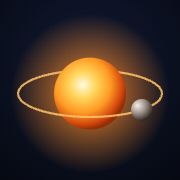
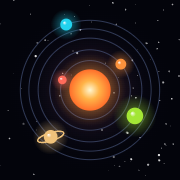
App espacial: sistema solar, 6 robôs (Marte e Júpiter), ícone novo

diff --git a/index.html b/index.html
@@ -6,78 +6,97 @@
 <link rel="manifest" href="manifest.json">
 <link rel="icon" href="icone-192.png">
 <link rel="apple-touch-icon" href="apple-touch-icon.png">
-<meta name="theme-color" content="#070a16">
+<meta name="theme-color" content="#03040b">
 <meta name="mobile-web-app-capable" content="yes">
 <meta name="apple-mobile-web-app-capable" content="yes">
 <meta name="apple-mobile-web-app-status-bar-style" content="black-translucent">
 <meta name="viewport" content="width=device-width, initial-scale=1, maximum-scale=1, viewport-fit=cover">
+<link rel="preconnect" href="https://fonts.googleapis.com"><link rel="preconnect" href="https://fonts.gstatic.com" crossorigin>
+<link href="https://fonts.googleapis.com/css2?family=Orbitron:wght@600;800&family=Exo+2:wght@400;600;700&display=swap" rel="stylesheet">
 <style>
-:root{--bg:#05070f;--card:#0f1528;--borda:#222b45;--txt:#e8ecf8;--sub:#9aa6c4;--ouro:#ffc46b;--verde:#4ade80;--verm:#f87171;--azul:#60a5fa}
+:root{--bg:#03040b;--card:rgba(14,20,44,.55);--borda:rgba(120,150,255,.16);--txt:#e8ecf8;--sub:#8fa0c8;--ouro:#ffc46b;--verde:#4ade80;--verm:#f87171;--azul:#60a5fa;--neon:#7dd3fc}
 *{box-sizing:border-box}
-body{margin:0;background:radial-gradient(120% 60% at 50% 0%,#121a33 0%,#070a16 55%,#04050b 100%);background-attachment:fixed;color:var(--txt);font-family:-apple-system,"Segoe UI",Roboto,Inter,sans-serif;min-height:100vh}
-.wrap{max-width:520px;margin:0 auto;padding:calc(16px + env(safe-area-inset-top)) 16px calc(40px + env(safe-area-inset-bottom))}
-#login{display:none;max-width:420px;margin:0 auto;padding:80px 20px}
-#login input{width:100%;padding:14px;border-radius:12px;border:1px solid var(--borda);background:#0f1528;color:var(--txt);font-size:16px;margin:14px 0}
-#login button{width:100%;padding:14px;border-radius:12px;border:0;background:var(--ouro);color:#111;font-weight:700;font-size:15px;min-height:48px}
-.top{display:flex;justify-content:space-between;align-items:center;margin-bottom:14px}
-h1{margin:0;font-size:18px;letter-spacing:.06em;color:var(--ouro);white-space:nowrap}
-.sub{font-size:11px;color:var(--sub);margin-top:2px}
-.pill{white-space:nowrap;display:flex;align-items:center;gap:7px;padding:6px 11px;border-radius:999px;font-size:11px;font-weight:600;letter-spacing:.05em;border:1px solid}
+html{background:#03040b}
+body{margin:0;background:radial-gradient(90% 50% at 50% -5%,rgba(255,170,60,.16) 0%,rgba(80,60,180,.10) 35%,transparent 70%),radial-gradient(70% 50% at 100% 100%,rgba(34,211,238,.07),transparent 70%),#03040b;background-attachment:fixed;color:var(--txt);font-family:"Exo 2",-apple-system,"Segoe UI",Roboto,sans-serif;min-height:100vh;overflow-x:hidden}
+#ceu{position:fixed;inset:0;width:100%;height:100%;z-index:0;pointer-events:none}
+.wrap,#login{position:relative;z-index:1}
+.wrap{max-width:540px;margin:0 auto;padding:calc(14px + env(safe-area-inset-top)) 16px calc(40px + env(safe-area-inset-bottom))}
+#login{display:none;max-width:420px;margin:0 auto;padding:70px 20px;text-align:center}
+#login input{width:100%;padding:14px;border-radius:14px;border:1px solid var(--borda);background:rgba(10,14,32,.8);color:var(--txt);font-size:16px;margin:14px 0;font-family:inherit}
+#login button{width:100%;padding:14px;border-radius:14px;border:0;background:linear-gradient(90deg,#ffb347,#ff7a3d);color:#140a00;font-weight:800;font-size:15px;min-height:48px;letter-spacing:.12em;font-family:Orbitron,sans-serif;box-shadow:0 0 24px rgba(255,150,60,.45)}
+.top{display:flex;justify-content:space-between;align-items:center;gap:10px;margin-bottom:14px}
+.marca{display:flex;align-items:center;gap:10px;min-width:0}
+.sol{width:46px;height:46px;flex:none}
+.sol .orb{transform-origin:50px 50px}
+.o1{animation:gira 6s linear infinite}.o2{animation:gira 11s linear infinite}.o3{animation:gira 19s linear infinite}.o4{animation:gira 30s linear infinite}
+@keyframes gira{to{transform:rotate(360deg)}}
+@media (prefers-reduced-motion:reduce){.o1,.o2,.o3,.o4{animation:none}}
+h1{margin:0;font-family:Orbitron,sans-serif;font-weight:800;font-size:clamp(11px,3vw,16px);letter-spacing:.06em;white-space:nowrap;background:linear-gradient(90deg,#ffd38a,#ff9a4d 55%,#ff6b8b);-webkit-background-clip:text;background-clip:text;color:transparent;filter:drop-shadow(0 0 10px rgba(255,160,70,.35))}
+.sub{font-size:11px;color:var(--sub);margin-top:3px;overflow:hidden;text-overflow:ellipsis}
+.pill{white-space:nowrap;display:flex;align-items:center;gap:7px;padding:6px 11px;border-radius:999px;font-size:10.5px;font-weight:700;letter-spacing:.12em;border:1px solid;font-family:Orbitron,sans-serif}
 .dot{width:8px;height:8px;border-radius:50%}
-.on{color:#86efac;border-color:rgba(74,222,128,.45);background:rgba(74,222,128,.1)}
+.on{color:#86efac;border-color:rgba(74,222,128,.45);background:rgba(74,222,128,.08)}
 .on .dot{background:var(--verde);animation:ping 1.8s infinite}
-.off{color:#fca5a5;border-color:rgba(248,113,113,.45);background:rgba(248,113,113,.1)}
+.off{color:#fca5a5;border-color:rgba(248,113,113,.45);background:rgba(248,113,113,.08)}
 .off .dot{background:var(--verm)}
 @keyframes ping{0%{box-shadow:0 0 0 0 rgba(74,222,128,.7)}100%{box-shadow:0 0 0 9px rgba(74,222,128,0)}}
-.card{background:rgba(255,255,255,.035);border:1px solid var(--borda);border-radius:14px;padding:14px;margin-bottom:12px}
-.lbl{font-size:10.5px;color:var(--sub);letter-spacing:.12em;text-transform:uppercase}
-.big{font-size:34px;font-weight:700;margin-top:4px}
+.card,.gcard{position:relative;background:linear-gradient(160deg,rgba(30,40,90,.38),rgba(8,12,30,.55));border:1px solid var(--borda);border-radius:18px;padding:14px;margin-bottom:12px;backdrop-filter:blur(8px);-webkit-backdrop-filter:blur(8px);box-shadow:inset 0 1px 0 rgba(255,255,255,.05),0 8px 30px rgba(0,0,0,.35)}
+.hero{overflow:hidden;border-color:rgba(255,180,90,.28)}
+.hero:before{content:"";position:absolute;right:-60px;top:-60px;width:180px;height:180px;border-radius:50%;background:radial-gradient(circle,rgba(255,170,60,.35),rgba(255,120,40,.08) 55%,transparent 70%)}
+.hero:after{content:"";position:absolute;right:-110px;top:-110px;width:280px;height:280px;border-radius:50%;border:1px dashed rgba(255,200,120,.18)}
+.lbl{font-size:10px;color:var(--sub);letter-spacing:.18em;text-transform:uppercase;font-family:Orbitron,sans-serif}
+.big{font-size:36px;font-weight:700;margin-top:6px;font-family:Orbitron,sans-serif;letter-spacing:.02em}
 .row{display:flex;justify-content:space-between;gap:10px}
 .g2{display:grid;grid-template-columns:1fr 1fr;gap:10px}
-.val{font-size:18px;font-weight:700;margin-top:4px}
-.pos{color:var(--verde)} .neg{color:var(--verm)} .neu{color:var(--txt)}
+.val{font-size:17px;font-weight:700;margin-top:4px;font-variant-numeric:tabular-nums}
+.pos{color:var(--verde);text-shadow:0 0 12px rgba(74,222,128,.35)} .neg{color:var(--verm);text-shadow:0 0 12px rgba(248,113,113,.3)} .neu{color:var(--txt)}
 .tabs{display:flex;gap:6px;margin-bottom:10px}
-.tabs button{flex:1;background:transparent;color:var(--sub);border:1px solid var(--borda);border-radius:10px;padding:9px 0;font-size:12px;font-weight:600;min-height:40px}
-.tabs button.sel{background:var(--ouro);color:#111;border-color:var(--ouro)}
-.fonte{font-size:12px;font-weight:700;letter-spacing:.08em}
-.m{color:#ff6b5b} .c{color:var(--azul)}
-.mini{font-size:12px;color:var(--sub);margin-top:4px}
-.item{display:flex;justify-content:space-between;align-items:center;padding:10px 0;border-top:1px solid var(--borda)}
+.tabs button,.tabsx button,.zoom button{font-family:Orbitron,sans-serif;flex:1;background:rgba(10,14,32,.5);color:var(--sub);border:1px solid var(--borda);border-radius:12px;padding:9px 0;font-size:11px;font-weight:600;letter-spacing:.12em;min-height:40px;cursor:pointer}
+.tabs button.sel,.zoom button.sel{background:linear-gradient(90deg,rgba(255,179,71,.22),rgba(255,107,139,.18));color:#ffd38a;border-color:rgba(255,190,110,.6);box-shadow:0 0 16px rgba(255,160,70,.25)}
+.mini{font-size:11.5px;color:var(--sub);margin-top:4px}
+.item{display:flex;justify-content:space-between;align-items:center;gap:10px;padding:10px 0;border-top:1px solid var(--borda)}
 .item:first-of-type{border-top:none}
-.tag{font-size:10px;font-weight:700;padding:2px 7px;border-radius:6px;margin-right:6px}
-.tm{background:rgba(255,107,91,.16);color:#ff6b5b} .tp{background:rgba(196,181,253,.16);color:#c4b5fd} .p{color:#c4b5fd} .g3{display:grid;grid-template-columns:1fr 1fr 1fr;gap:8px} .g3 .val{font-size:13.5px;white-space:nowrap;letter-spacing:-.02em} .g3 .card{padding:12px 10px} .tc{background:rgba(96,165,250,.15);color:var(--azul)} .tsa{background:rgba(240,194,123,.16);color:#f0c27b} .sa{color:#f0c27b} .g4{display:grid;grid-template-columns:1fr 1fr;gap:8px} .tne{background:rgba(34,211,238,.16);color:#22d3ee} .ne{color:#22d3ee} .g4 .full{grid-column:1/-1}
+.tag{font-size:9.5px;font-weight:700;padding:3px 8px;border-radius:999px;margin-right:6px;letter-spacing:.08em;font-family:Orbitron,sans-serif;border:1px solid currentColor}
+.g4{display:grid;grid-template-columns:1fr 1fr;gap:9px}.g4 .full{grid-column:1/-1}
+.rob{overflow:hidden;padding:12px 12px 12px 12px}
+.rob .pl{position:absolute;right:-14px;top:-14px;width:58px;height:58px;border-radius:50%;opacity:.9}
+.rob .nm{display:flex;align-items:center;gap:7px;font-family:Orbitron,sans-serif;font-size:11.5px;font-weight:800;letter-spacing:.12em}
+.rob .ds{font-size:10px;color:var(--sub);letter-spacing:.06em;margin-top:2px;position:relative}
 .det{font-size:11.5px;color:var(--sub);margin-top:3px}
 .vazio{font-size:13px;color:var(--sub);padding:6px 0}
-h2{font-size:13px;color:var(--sub);letter-spacing:.12em;margin:18px 0 8px;font-weight:600}
-.an{margin-top:8px;padding:10px 12px;border-radius:10px;background:rgba(255,255,255,.03);border:1px solid var(--borda);font-size:12.5px;line-height:1.5}
+h2{font-family:Orbitron,sans-serif;font-size:11px;color:var(--neon);letter-spacing:.22em;margin:20px 0 9px;font-weight:600;display:flex;align-items:center;gap:10px}
+h2:after{content:"";flex:1;height:1px;background:linear-gradient(90deg,rgba(125,211,252,.4),transparent)}
+.an{margin-top:8px;padding:10px 12px;border-radius:12px;background:rgba(5,8,20,.55);border:1px solid var(--borda);font-size:12.5px;line-height:1.5}
 .an div{margin:2px 0}
-.selo{display:inline-block;font-size:11px;font-weight:700;letter-spacing:.06em;padding:3px 9px;border-radius:999px;margin-bottom:6px}
+.selo{display:inline-block;font-size:10px;font-weight:700;letter-spacing:.12em;padding:3px 9px;border-radius:999px;margin-bottom:6px;font-family:Orbitron,sans-serif}
 .s-ok{background:rgba(74,222,128,.14);color:#86efac}.s-at{background:rgba(255,196,107,.16);color:var(--ouro)}.s-pe{background:rgba(248,113,113,.16);color:#fca5a5}
 .pbox{padding:10px 0;border-top:1px solid var(--borda)}.pbox:first-of-type{border-top:none}
 .nota{font-size:10.5px;color:var(--sub);margin-top:6px}
 .tabsx{display:flex;gap:6px;margin:0 0 14px}
-.tabsx button{flex:1;position:relative;background:transparent;color:var(--sub);border:1px solid var(--borda);border-radius:12px;padding:10px 0;font-size:13px;font-weight:700;letter-spacing:.06em;min-height:44px}
-.tabsx button.sel{background:rgba(255,196,107,.14);color:var(--ouro);border-color:rgba(255,196,107,.5)}
-.badge{display:inline-block;min-width:18px;padding:1px 6px;margin-left:6px;border-radius:999px;background:var(--verm);color:#fff;font-size:11px}
-.som{width:44px;height:44px;border-radius:12px;border:1px solid var(--borda);background:rgba(255,255,255,.04);color:var(--txt);display:flex;align-items:center;justify-content:center;padding:0}
-.som svg{width:22px;height:22px}
+.tabsx button{position:relative;font-size:12px;padding:10px 0;min-height:44px;border-radius:14px}
+.tabsx button.sel{background:linear-gradient(90deg,rgba(125,211,252,.16),rgba(167,139,250,.16));color:#e0f2fe;border-color:rgba(125,211,252,.55);box-shadow:0 0 18px rgba(125,211,252,.25)}
+.badge{display:inline-block;min-width:18px;padding:1px 6px;margin-left:6px;border-radius:999px;background:var(--verm);color:#fff;font-size:10px;box-shadow:0 0 10px rgba(248,113,113,.7)}
+.som{width:44px;height:44px;border-radius:14px;border:1px solid var(--borda);background:rgba(10,14,32,.6);color:var(--txt);display:flex;align-items:center;justify-content:center;padding:0;cursor:pointer}
+.som svg{width:21px;height:21px}
 .som.mudo{color:var(--verm);border-color:rgba(248,113,113,.45)}
 .direita{display:flex;align-items:center;gap:8px}
-.toast{position:fixed;left:50%;top:calc(12px + env(safe-area-inset-top));transform:translateX(-50%) translateY(-150%);width:calc(100% - 32px);max-width:488px;padding:14px 16px;border-radius:14px;background:#1a2340;border:1px solid var(--ouro);box-shadow:0 10px 30px rgba(0,0,0,.5);font-weight:700;font-size:14px;z-index:9;transition:transform .35s}
+.toast{position:fixed;left:50%;top:calc(12px + env(safe-area-inset-top));transform:translateX(-50%) translateY(-150%);width:calc(100% - 32px);max-width:508px;padding:14px 16px;border-radius:16px;background:rgba(16,22,52,.92);backdrop-filter:blur(10px);border:1px solid var(--ouro);box-shadow:0 0 30px rgba(255,170,70,.3),0 10px 30px rgba(0,0,0,.5);font-weight:700;font-size:14px;z-index:9;transition:transform .35s}
 .toast.vis{transform:translateX(-50%) translateY(0)}
 .toast small{display:block;font-weight:500;color:var(--sub);margin-top:3px}
-.gcard{background:rgba(255,255,255,.035);border:1px solid var(--borda);border-radius:14px;padding:12px;margin-bottom:12px}
-.gtit{display:flex;justify-content:space-between;align-items:baseline;margin-bottom:8px}
-.gtit b{font-size:15px}
-canvas.g{width:100%;height:max(420px,calc(100vh - 300px));display:block;touch-action:pan-y}
-.zoom{display:flex;gap:6px;margin:0 0 8px}.zoom button{flex:1;background:transparent;color:var(--sub);border:1px solid var(--borda);border-radius:8px;padding:7px 0;font-size:12px;font-weight:700;min-height:36px}.zoom button.sel{color:#111;background:var(--ouro);border-color:var(--ouro)}
+.gtit{display:flex;justify-content:space-between;align-items:baseline;gap:8px;margin-bottom:8px}
+.gtit b{font-size:14px;font-family:Orbitron,sans-serif;letter-spacing:.06em}
+canvas.g{width:100%;height:max(420px,calc(100vh - 300px));display:block;touch-action:pan-y;border-radius:10px}
+.zoom{display:flex;gap:6px;margin:0 0 8px}.zoom button{min-height:36px;border-radius:10px}
 .leg{display:flex;flex-wrap:wrap;gap:10px;font-size:11px;color:var(--sub);margin-top:8px}
 .leg i{display:inline-block;width:14px;height:3px;border-radius:2px;margin-right:5px;vertical-align:middle}
-.aviso{font-size:11px;color:var(--sub);text-align:center;margin-top:18px}
+.aviso{font-size:10.5px;color:var(--sub);text-align:center;margin-top:20px;letter-spacing:.04em}
+.aviso b{font-family:Orbitron,sans-serif;font-weight:600;color:#ffd38a;letter-spacing:.12em}
 </style>
 </head>
 <body>
+<canvas id="ceu" aria-hidden="true"></canvas>
 <div id="login">
+  <svg class="sol" style="width:120px;height:120px;margin:0 auto 18px;display:block" viewBox="0 0 100 100" aria-hidden="true"><defs><radialGradient id="gs2" cx="50%" cy="50%" r="50%"><stop offset="0" stop-color="#fff3c4"/><stop offset=".45" stop-color="#ffb347"/><stop offset="1" stop-color="#ff6a2b"/></radialGradient><radialGradient id="gh2" cx="50%" cy="50%" r="50%"><stop offset=".3" stop-color="rgba(255,170,60,.55)"/><stop offset="1" stop-color="rgba(255,120,40,0)"/></radialGradient></defs><circle cx="50" cy="50" r="22" fill="url(#gh2)"/><g fill="none" stroke="rgba(150,180,255,.28)" stroke-width=".8"><circle cx="50" cy="50" r="20"/><circle cx="50" cy="50" r="29"/><circle cx="50" cy="50" r="38"/><circle cx="50" cy="50" r="47"/></g><circle cx="50" cy="50" r="12" fill="url(#gs2)"/><g class="orb o1"><circle cx="70" cy="50" r="2.6" fill="#ff6b5b"/></g><g class="orb o2"><circle cx="50" cy="21" r="3.2" fill="#fb923c"/></g><g class="orb o3"><circle cx="12" cy="50" r="5" fill="#a3e635"/></g><g class="orb o4"><circle cx="50" cy="97" r="3.8" fill="#22d3ee"/></g></svg>
   <h1>JORGE LEIRA TRADER</h1>
   <p class="sub" style="font-size:14px;margin-top:10px">Digite a chave do app (só na primeira vez).</p>
   <label for="chave" class="lbl">Chave</label>
@@ -88,7 +107,7 @@ canvas.g{width:100%;height:max(420px,calc(100vh - 300px));display:block;touch-ac
 <div class="toast" id="toast"></div>
 <div class="wrap" id="app">
   <div class="top">
-    <div><h1>JORGE LEIRA TRADER</h1><div class="sub" id="conta">conta —</div></div>
+    <div class="marca"><svg class="sol" viewBox="0 0 100 100" aria-hidden="true"><defs><radialGradient id="gs" cx="50%" cy="50%" r="50%"><stop offset="0" stop-color="#fff3c4"/><stop offset=".45" stop-color="#ffb347"/><stop offset="1" stop-color="#ff6a2b"/></radialGradient><radialGradient id="gh" cx="50%" cy="50%" r="50%"><stop offset=".3" stop-color="rgba(255,170,60,.55)"/><stop offset="1" stop-color="rgba(255,120,40,0)"/></radialGradient></defs><circle cx="50" cy="50" r="22" fill="url(#gh)"/><g fill="none" stroke="rgba(150,180,255,.28)" stroke-width=".8"><circle cx="50" cy="50" r="20"/><circle cx="50" cy="50" r="29"/><circle cx="50" cy="50" r="38"/><circle cx="50" cy="50" r="47"/></g><circle cx="50" cy="50" r="12" fill="url(#gs)"/><g class="orb o1"><circle cx="70" cy="50" r="2.6" fill="#ff6b5b"/></g><g class="orb o2"><circle cx="50" cy="21" r="3.2" fill="#fb923c"/></g><g class="orb o3"><circle cx="12" cy="50" r="5" fill="#a3e635"/></g><g class="orb o4"><circle cx="50" cy="97" r="3.8" fill="#22d3ee"/></g></svg><div style="min-width:0"><h1>JORGE LEIRA TRADER</h1><div class="sub" id="conta">conta —</div></div></div>
     <div class="direita">
       <div class="pill off" id="pill"><div class="dot"></div><span id="st">AGUARDANDO</span></div>
       <button class="som" id="bsom" onclick="alternarSom()" aria-label="Ligar ou desligar o alerta sonoro"></button>
@@ -104,7 +123,7 @@ canvas.g{width:100%;height:max(420px,calc(100vh - 300px));display:block;touch-ac
   </div>
   <div id="v_resumo">
 
-  <div class="card">
+  <div class="card hero">
     <div class="lbl">Resultado de hoje (fechado + aberto)</div>
     <div class="big neu" id="hojeTot">—</div>
     <div class="mini" id="hojeDet"></div>
@@ -121,14 +140,7 @@ canvas.g{width:100%;height:max(420px,calc(100vh - 300px));display:block;touch-ac
     <button id="b_semana" onclick="per('semana')">SEMANA</button>
     <button id="b_mes" onclick="per('mes')">MÊS</button>
   </div>
-  <div class="g4">
-    <div class="card"><div class="fonte m">MERCÚRIO</div><div class="val" id="pm">—</div><div class="mini" id="pmd"></div></div>
-    <div class="card"><div class="fonte p">PLUTÃO</div><div class="val" id="pp">—</div><div class="mini" id="ppd"></div></div>
-    <div class="card"><div class="fonte sa">SATURNO</div><div class="val" id="ps">—</div><div class="mini" id="psd"></div></div>
-    <div class="card"><div class="fonte ne">NETUNO</div><div class="val" id="pn">—</div><div class="mini" id="pnd"></div></div>
-    <div class="card full"><div class="fonte c">COPY</div><div class="val" id="pc">—</div><div class="mini" id="pcd"></div></div>
-  </div>
-
+  <div class="g4" id="robos"></div>
   <h2>POSIÇÕES ABERTAS</h2>
   <div class="card" id="abertas"><div class="vazio">—</div></div>
 
@@ -136,7 +148,7 @@ canvas.g{width:100%;height:max(420px,calc(100vh - 300px));display:block;touch-ac
   <div class="card" id="ultimas"><div class="vazio">—</div></div>
 
   </div>
-  <div class="aviso">Somente leitura · nenhuma ordem pode ser enviada daqui · horários de Brasília</div>
+  <div class="aviso"><b>SISTEMA SOLAR</b> · 6 robôs em órbita<br>Somente leitura · nenhuma ordem pode ser enviada daqui · horários de Brasília</div>
 </div>
 <script>
 var API = 'https://script.google.com/macros/s/AKfycbxu628RRutJbE6C8JNOiCSOQirAq_oEVrbDwUNOTl2FXnauEsE6eIHjpRZtaIshk94r/exec';
@@ -313,10 +325,30 @@ function regiao(x){
   }
   return R;
 }
-function NOMEF(f){ return f === 'MERCURIO' ? 'MERCÚRIO' : (f === 'PLUTAO' ? 'PLUTÃO' : (f === 'SATURNO' ? 'SATURNO' : (f === 'NETUNO' ? 'NETUNO' : 'COPY'))); }
-function TAGF(f){ return f === 'MERCURIO' ? 'tm' : (f === 'PLUTAO' ? 'tp' : (f === 'SATURNO' ? 'tsa' : (f === 'NETUNO' ? 'tne' : 'tc'))); }
+var ROBOS = [
+  {k:'MERCURIO', n:'MERCÚRIO', c:'#ff6b5b', d:'Ouro'},
+  {k:'MARTE',    n:'MARTE',    c:'#fb923c', d:'GER40 · M15'},
+  {k:'JUPITER',  n:'JÚPITER',  c:'#a3e635', d:'Nasdaq · M15'},
+  {k:'SATURNO',  n:'SATURNO',  c:'#f0c27b', d:'Ouro', anel:true},
+  {k:'NETUNO',   n:'NETUNO',   c:'#22d3ee', d:'GER40 · M5'},
+  {k:'PLUTAO',   n:'PLUTÃO',   c:'#c4b5fd', d:''},
+  {k:'COPY',     n:'COPY',     c:'#60a5fa', d:'Copy trade', full:true}
+];
+function ROB(f){ for (var i = 0; i < ROBOS.length; i++) if (ROBOS[i].k === f) return ROBOS[i]; return ROBOS[ROBOS.length - 1]; }
+function NOMEF(f){ return ROB(f).n; }
+function tagHtml(f){ var r = ROB(f); return '<span class="tag" style="color:' + r.c + ';background:' + r.c + '1f">' + r.n + '</span>'; }
+function montarRobos(){
+  var g = document.getElementById('robos'); g.innerHTML = '';
+  ROBOS.forEach(function(r){
+    var c = document.createElement('div'); c.className = 'card rob' + (r.full ? ' full' : ''); c.style.borderColor = r.c + '40';
+    var pl = r.k === 'COPY' ? 'radial-gradient(circle at 35% 35%,#dbeafe,' + r.c + ' 45%,#0b1530 75%)' : 'radial-gradient(circle at 32% 30%,#fff,' + r.c + ' 38%,' + r.c + '55 62%,transparent 72%)';
+    c.innerHTML = '<div class="pl" style="background:' + pl + ';box-shadow:0 0 26px ' + r.c + '55"></div>' + (r.anel ? '<div style="position:absolute;right:-26px;top:9px;width:82px;height:18px;border-radius:50%;border:2px solid ' + r.c + '99;transform:rotate(-18deg)"></div>' : '') +
+      '<div class="nm" style="color:' + r.c + ';text-shadow:0 0 12px ' + r.c + '66">' + r.n + '</div><div class="ds">' + (r.d || '&nbsp;') + '</div><div class="val" id="v_' + r.k + '">—</div><div class="mini" id="d_' + r.k + '"></div>';
+    g.appendChild(c);
+  });
+}
 function analise(x){
-  var L = [], patr = D.patrimonio || 1, copy = x.fonte === 'COPY', plu = x.fonte === 'PLUTAO', sat = x.fonte === 'SATURNO', net = x.fonte === 'NETUNO', frac = null;
+  var L = [], patr = D.patrimonio || 1, copy = x.fonte === 'COPY', plu = x.fonte === 'PLUTAO', sat = x.fonte === 'SATURNO', net = x.fonte === 'NETUNO', jup = x.fonte === 'JUPITER', mar = x.fonte === 'MARTE', frac = null;
   var sem_stop = (!copy && x.risco === null);
   if (x.favor === 1) L.push('✅ A favor da tendência (média longa do gráfico)');
   else if (x.favor === -1) L.push('⚠ Contra a tendência (média longa do gráfico)');
@@ -331,11 +363,15 @@ function analise(x){
     if (x.prog !== null && x.prog >= 0) L.push('📈 Já fez ' + Math.min(x.prog, 100) + '% do caminho até o alvo');
     if (!sem_stop && !x.protegido && x.lucro < 0 && x.risco < 0) { frac = Math.round(100 * x.lucro / x.risco); L.push('📉 Já andou ' + frac + '% do caminho até o stop'); }
   }
-  if (net) L.push('⏱ Aberta há ' + x.min + ' min · sai no alvo da cesta (1,5R), na cor contrária do IFR ou no stop · zera no fim do dia');
+  if (jup) L.push('⏱ Aberta há ' + x.min + ' min · sai no alvo (4x o stop), no stop, no sinal contrário, depois de 6 h ou na virada do dia');
+  else if (mar) L.push('⏱ Aberta há ' + x.min + ' min · sai no alvo (3x o stop), no stop, no sinal contrário ou na virada do dia');
+  else if (net) L.push('⏱ Aberta há ' + x.min + ' min · sai no alvo da cesta (1,5R), na cor contrária do IFR ou no stop · zera no fim do dia');
   else if (plu || sat) L.push('⏱ Aberta há ' + x.min + ' min · sai só no stop ou no alvo (não tem saída por tempo)');
   else if (!copy) L.push('⏱ Aberta há ' + x.min + ' min · fecha sozinha aos 45 (faltam ' + Math.max(0, 45 - x.min) + ')');
   else L.push('⏱ Aberta há ' + x.min + ' min · flutuante ' + (Math.abs(x.lucro) / patr * 100).toFixed(1).replace('.', ',') + '% da conta');
-  if (net) L.push('📊 NETUNO nos testes (GER40, 2 anos, ticks reais): acerta ~6 em 10, gain médio ~US$ 54 e loss médio ~US$ 55 no lote 1. PF 1,55. Pode abrir 1 preço médio (2º lote)');
+  if (jup) L.push('📊 JÚPITER nos testes (Nasdaq, 2 anos, ticks reais): lucro ~US$ 2.992 no lote 1, PF 3,74. Só opera com Nova York aberta; o lote é ajustado pelas sondas (HELIOS, gigantes, VIX e cerca do dia anterior)');
+  else if (mar) L.push('📊 MARTE nos testes (GER40, 2 anos, ticks reais): lucro ~US$ 3.074 no lote 1, PF 2,37. Pullback a favor da tendência; lote ajustado pelas sondas HELIOS e REFÚGIO');
+  else if (net) L.push('📊 NETUNO nos testes (GER40, 2 anos, ticks reais): acerta ~6 em 10, gain médio ~US$ 54 e loss médio ~US$ 55 no lote 1. PF 1,55. Pode abrir 1 preço médio (2º lote)');
   else if (sat) L.push('📊 SATURNO nos testes (2 anos, ticks reais): acerta ~3 em 10, mas o gain médio (~US$ 199 no 0,03) paga ~4 losses (~US$ 52). PF 1,56 a 1,84. Operação dura ~5 h');
   else if (plu) L.push('📊 PLUTÃO nos testes (2 anos + 7 meses fora): acerta ~3 em 10, mas cada gain paga ~3,5 stops (PF 1,5 a 1,6). Stop é normal, o resultado vem dos gains');
   else if (!copy) L.push('📊 No teste de 12 meses, 87% das operações do MERCÚRIO fecharam no lucro (PF 2,39)');
@@ -360,26 +396,20 @@ function desenhar(){
   else { pill.className = 'pill off'; set('st', 'SEM SINAL ' + Math.round(idade / 60) + ' MIN'); }
   set('conta', 'conta ' + D.conta + (D.desde ? ' · contando desde ' + dia(D.desde) : '') + ' · atualizado ' + D.hora.substr(11, 8));
   var Z = {lucro: 0, ops: 0, ganhos: 0};
-  var h = D.periodos.hoje, fl = D.flutuante.MERCURIO + D.flutuante.COPY + (D.flutuante.PLUTAO || 0) + (D.flutuante.SATURNO || 0) + (D.flutuante.NETUNO || 0);
-  var hP = h.PLUTAO || Z, hS = h.SATURNO || Z, hN = h.NETUNO || Z;
-  var tot = h.MERCURIO.lucro + h.COPY.lucro + hP.lucro + hS.lucro + hN.lucro + fl;
+  var h = D.periodos.hoje, fl = 0, fech = 0;
+  ROBOS.forEach(function(r){ fl += (D.flutuante[r.k] || 0); fech += (h[r.k] || Z).lucro; });
+  var tot = fech + fl;
   set('hojeTot', usd(tot, true), cls(tot));
-  set('hojeDet', 'Fechado ' + usd(h.MERCURIO.lucro + h.COPY.lucro + hP.lucro + hS.lucro + hN.lucro, true) + ' · aberto ' + usd(fl, true));
+  set('hojeDet', 'Fechado ' + usd(fech, true) + ' · aberto ' + usd(fl, true));
   set('saldo', usd(D.saldo)); set('patr', usd(D.patrimonio));
   var p = D.periodos[P];
-  set('pm', usd(p.MERCURIO.lucro, true), cls(p.MERCURIO.lucro));
-  set('pc', usd(p.COPY.lucro, true), cls(p.COPY.lucro));
-  var pN = p.NETUNO || Z; set('pn', usd(pN.lucro, true), cls(pN.lucro)); set('pnd', pN.ops + ' ops · ' + (pN.ops ? Math.round(100 * pN.ganhos / pN.ops) : 0) + '% ganhos');
-  var pS = p.SATURNO || Z; set('ps', usd(pS.lucro, true), cls(pS.lucro)); set('psd', pS.ops + ' ops · ' + (pS.ops ? Math.round(100 * pS.ganhos / pS.ops) : 0) + '% ganhos');
-  var pP = p.PLUTAO || Z; set('pp', usd(pP.lucro, true), cls(pP.lucro)); set('ppd', pP.ops + ' ops · ' + (pP.ops ? Math.round(100 * pP.ganhos / pP.ops) : 0) + '% ganhos');
-  set('pmd', p.MERCURIO.ops + ' ops · ' + (p.MERCURIO.ops ? Math.round(100 * p.MERCURIO.ganhos / p.MERCURIO.ops) : 0) + '% ganhos');
-  set('pcd', p.COPY.ops + ' ops · ' + (p.COPY.ops ? Math.round(100 * p.COPY.ganhos / p.COPY.ops) : 0) + '% ganhos');
+  ROBOS.forEach(function(r){ var q = p[r.k] || Z; set('v_' + r.k, usd(q.lucro, true), cls(q.lucro)); set('d_' + r.k, q.ops + ' ops · ' + (q.ops ? Math.round(100 * q.ganhos / q.ops) : 0) + '% ganhos'); });
   var a = document.getElementById('abertas'); a.innerHTML = '';
   if (!D.posicoes.length) a.innerHTML = '<div class="vazio">Nenhuma posição aberta</div>';
   D.posicoes.forEach(function(x){
     var w = document.createElement('div'); w.className = 'pbox';
     var r = document.createElement('div'); r.className = 'item'; r.style.borderTop = 'none'; r.style.padding = '0';
-    r.innerHTML = '<div><div><span class="tag ' + TAGF(x.fonte) + '">' + NOMEF(x.fonte) + '</span><b></b></div><div class="det"></div></div><div class="val"></div>';
+    r.innerHTML = '<div><div>' + tagHtml(x.fonte) + '<b></b></div><div class="det"></div></div><div class="val"></div>';
     r.querySelector('b').textContent = x.tipo + ' ' + x.ativo + ' ' + String(x.lote).replace('.', ',');
     r.querySelector('.det').textContent = 'entrada ' + x.entrada + ' · agora ' + x.atual + ' · desde ' + hora(x.aberta);
     var v = r.querySelector('.val'); v.textContent = usd(x.lucro, true); v.className = 'val ' + cls(x.lucro);
@@ -390,7 +420,7 @@ function desenhar(){
   if (!D.ultimas.length) u.innerHTML = '<div class="vazio">Nenhuma operação nos últimos 7 dias</div>';
   D.ultimas.forEach(function(x){
     var r = document.createElement('div'); r.className = 'item';
-    r.innerHTML = '<div><div><span class="tag ' + TAGF(x.fonte) + '">' + NOMEF(x.fonte) + '</span><b></b></div><div class="det"></div></div><div class="val"></div>';
+    r.innerHTML = '<div><div>' + tagHtml(x.fonte) + '<b></b></div><div class="det"></div></div><div class="val"></div>';
     r.querySelector('b').textContent = x.tipo + ' ' + x.ativo + ' ' + String(x.lote).replace('.', ',');
     r.querySelector('.det').textContent = dia(x.hora) + ' ' + hora(x.hora);
     var v = r.querySelector('.val'); v.textContent = usd(x.lucro, true); v.className = 'val ' + cls(x.lucro);
@@ -404,7 +434,17 @@ function buscar(){
     if (t) { try { D = JSON.parse(t); conferirAlertas(); desenhar(); desenharGraficos(); } catch(e) {} }
   }).catch(function(){});
 }
-botaoSom(); mostrar(); buscar(); setInterval(buscar, 5000); setInterval(desenhar, 1000);
+(function(){
+  var cv = document.getElementById('ceu'), g = cv.getContext('2d'), E = [], W, H, mov = !(window.matchMedia && matchMedia('(prefers-reduced-motion: reduce)').matches);
+  function tam(){ var dpr = window.devicePixelRatio || 1; W = innerWidth; H = innerHeight; cv.width = W * dpr; cv.height = H * dpr; g.setTransform(dpr, 0, 0, dpr, 0, 0); E = []; var n = Math.round(W * H / 2600); for (var i = 0; i < n; i++) E.push({x: Math.random() * W, y: Math.random() * H, r: Math.random() * 1.3 + .2, a: Math.random() * 6.28, v: .004 + Math.random() * .02, c: Math.random() < .12 ? '255,210,150' : (Math.random() < .2 ? '160,200,255' : '255,255,255')}); }
+  var cad = null;
+  function pinta(){ g.clearRect(0, 0, W, H); E.forEach(function(e){ e.a += e.v; var o = .35 + .55 * Math.abs(Math.sin(e.a)); g.fillStyle = 'rgba(' + e.c + ',' + o.toFixed(2) + ')'; g.beginPath(); g.arc(e.x, e.y, e.r, 0, 6.28); g.fill(); });
+    if (mov && !cad && Math.random() < .004) cad = {x: Math.random() * W, y: Math.random() * H * .4, t: 0};
+    if (cad) { cad.t += 1; var x = cad.x + cad.t * 7, y = cad.y + cad.t * 3, gr = g.createLinearGradient(x - 70, y - 30, x, y); gr.addColorStop(0, 'rgba(255,255,255,0)'); gr.addColorStop(1, 'rgba(255,240,210,.85)'); g.strokeStyle = gr; g.lineWidth = 1.4; g.beginPath(); g.moveTo(x - 70, y - 30); g.lineTo(x, y); g.stroke(); if (cad.t > 40) cad = null; }
+    if (mov) requestAnimationFrame(pinta); }
+  addEventListener('resize', function(){ tam(); if (!mov) pinta(); }); tam(); pinta();
+})();
+montarRobos(); botaoSom(); mostrar(); buscar(); setInterval(buscar, 5000); setInterval(desenhar, 1000);
 if ('serviceWorker' in navigator) navigator.serviceWorker.register('sw.js');
 </script>
 </body>
